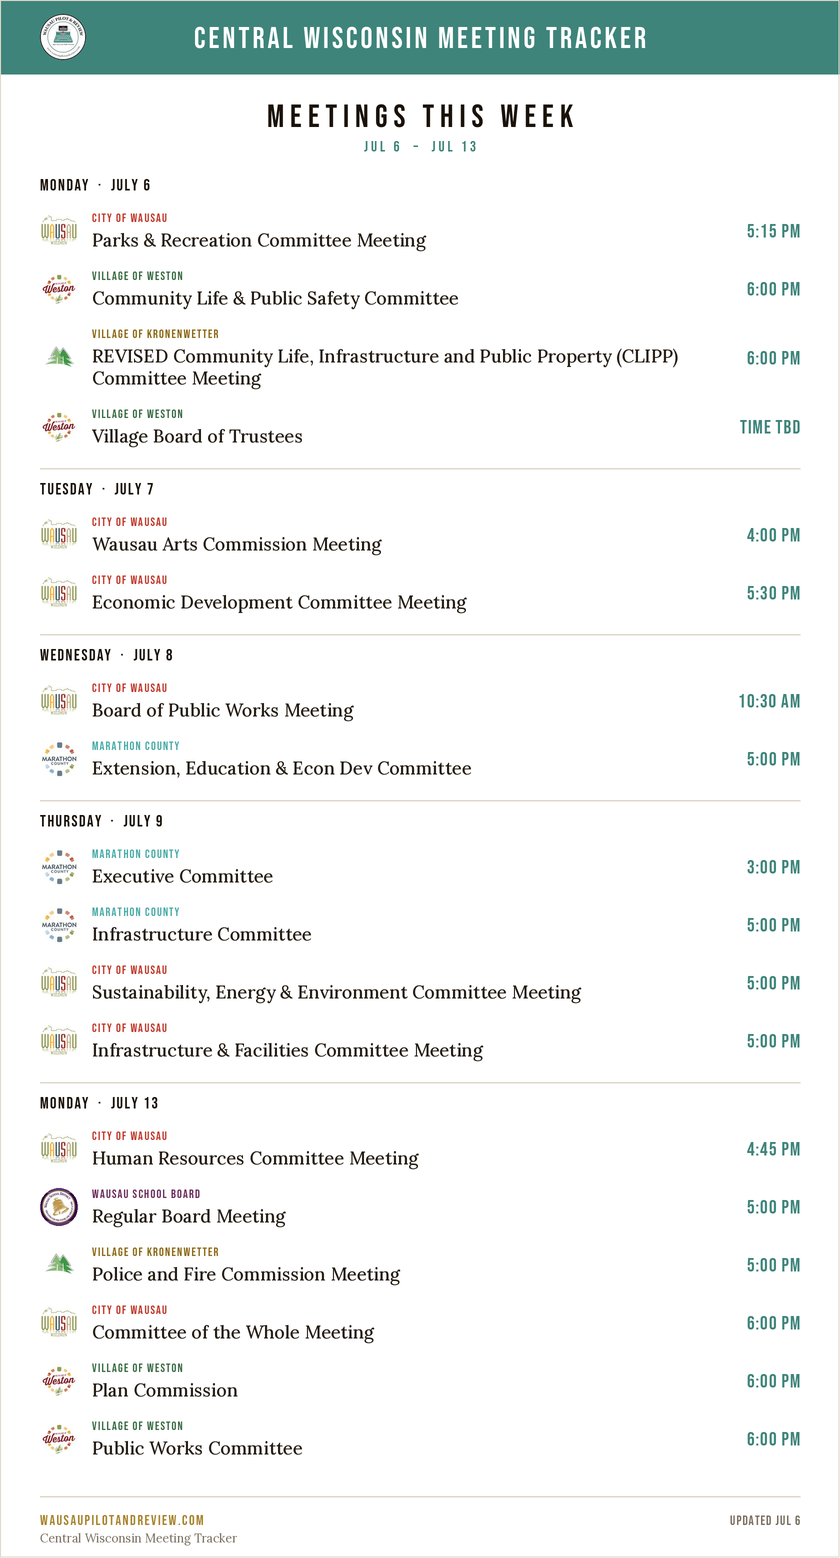
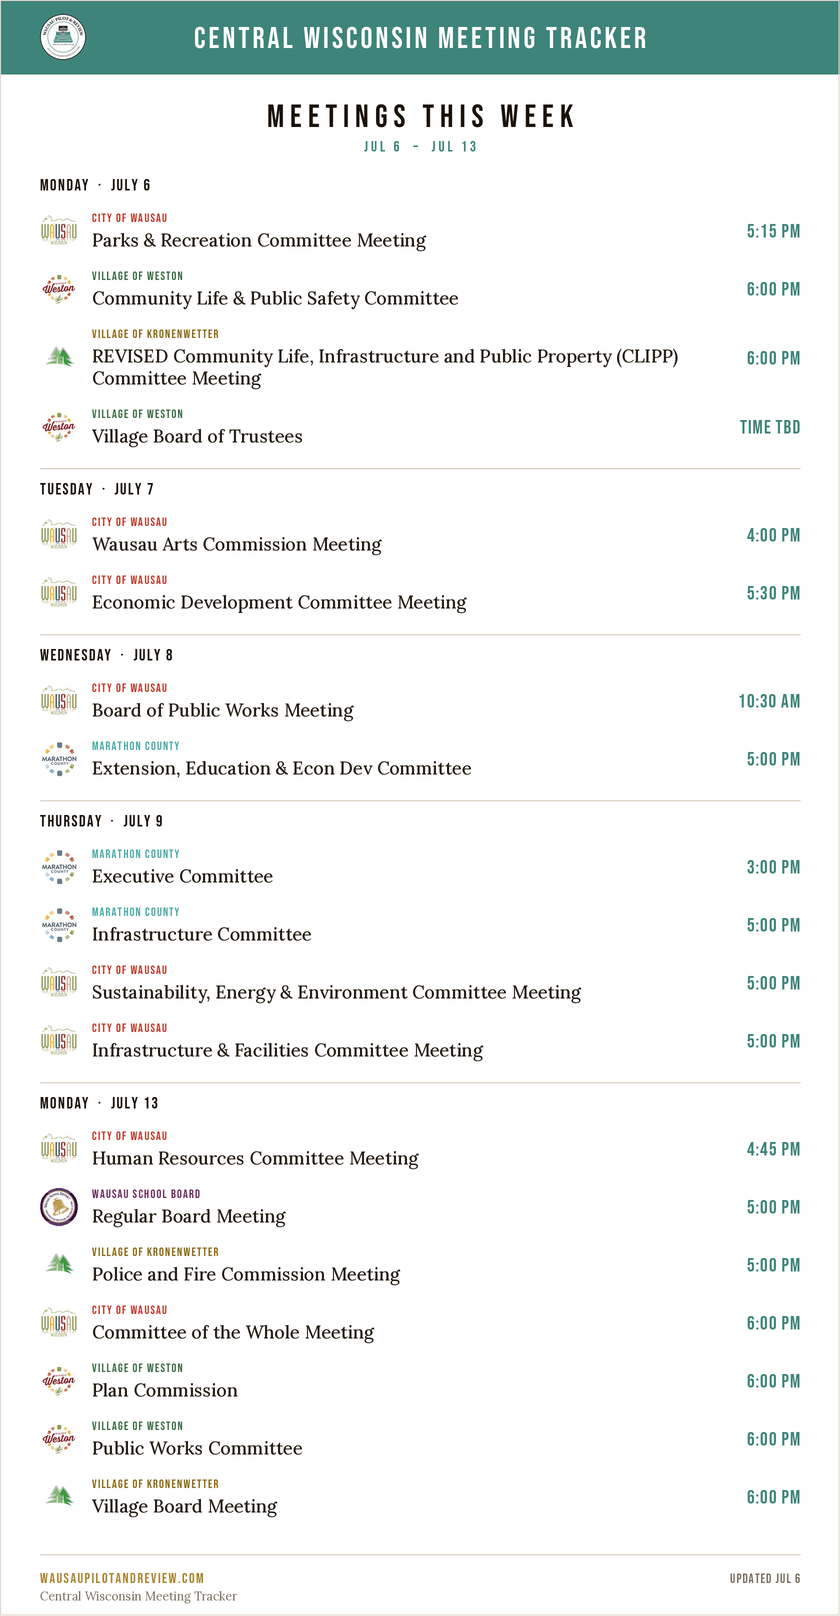
chore: update meetings data [skip ci]

diff --git a/public/roundup.html b/public/roundup.html
@@ -1,13 +1,14 @@
 <!-- DRAFT — auto-generated July 6, 2026; review before publishing -->
 <div style="max-width:600px;font-family:Georgia,'Times New Roman',serif;color:#1a1209;line-height:1.55;">
   <h2 style="font-family:Arial,Helvetica,sans-serif;font-size:15px;letter-spacing:0.12em;color:#3e847a;margin:0 0 10px;">THIS WEEK IN LOCAL GOVERNMENT</h2>
-  <p style="margin:0 0 12px;">Kronenwetter launched a new Parks Committee with plans for a major Bushka Park playground overhaul, while the Wausau School Board opened contract talks with its teachers union for the coming school year.</p>
+  <p style="margin:0 0 12px;">Kronenwetter launched a new Parks Committee with plans for a major playground overhaul at Bushka Park, while the Wausau School Board and its teachers union opened contract negotiations for the coming school year.</p>
   <ul style="margin:0 0 14px;padding-left:20px;">
-    <li style="margin:0 0 8px;">Kronenwetter's new Parks Committee elected Erin Mishka as chair and Dan Lesniac as vice chair at its first-ever meeting June 29, immediately turning to a $150,000–$200,000 playground replacement at Bushka Park.</li>
-    <li style="margin:0 0 8px;">The committee scheduled a public parks tour for July 8 at 4 p.m. at the municipal center, with July 9 as a rain date, and set a July 17 movie-under-the-stars fundraiser for the playground project.</li>
-    <li style="margin:0 0 8px;">The Wausau Board of Education met July 1 to exchange initial written contract proposals with the Wausau Education Association for the 2026-27 school year.</li>
-    <li style="margin:0 0 8px;">Kronenwetter's CLIPP Committee is set to vote on revisions to its Chapter 382 nuisances ordinance and consider traffic control measures on County Road XX and Terrebonne Drive at its July 6 meeting.</li>
+    <li style="margin:0 0 8px;">Kronenwetter's new Parks Committee elected Erin Mishka as chair and began planning a $150,000–$200,000 playground replacement at Bushka Park, with a July 17 movie-under-the-stars fundraiser in the works.</li>
+    <li style="margin:0 0 8px;">The Wausau Board of Education and the Wausau Education Association exchanged initial contract proposals for 2026-27 at a public meeting July 1.</li>
+    <li style="margin:0 0 8px;">Kronenwetter's CLIPP Committee is set to vote on revisions to the village's Chapter 382 nuisances ordinance at its July 6 meeting.</li>
+    <li style="margin:0 0 8px;">Kronenwetter's CLIPP Committee is also set to consider traffic control measures on County Road XX and Terrebonne Drive on July 6.</li>
+    <li style="margin:0 0 8px;">Kronenwetter's Parks Committee scheduled a public parks tour for Wednesday, July 8 at 4 p.m. at the municipal center, with July 9 as a rain date.</li>
   </ul>
-  <p style="margin:0 0 12px;"><em>Coming up:</em> Monday brings a full slate including Wausau's Parks & Recreation Committee at 5:15 p.m., the Village of Weston's Board of Trustees and Community Life & Public Safety Committee, and Kronenwetter's CLIPP meeting at 6 p.m. Later in the week, Marathon County's Infrastructure Committee meets Thursday and the City of Wausau's Infrastructure & Facilities and Sustainability, Energy & Environment committees both convene Thursday evening.</p>
+  <p style="margin:0 0 12px;"><em>Coming up:</em> The Village of Weston's Board of Trustees and Community Life & Public Safety Committee both meet Monday, July 7, and Wausau's Economic Development Committee meets Tuesday evening — while Marathon County's Infrastructure Committee and two City of Wausau committees convene Thursday, July 9.</p>
   <p style="margin:0;"><a href="https://wausaupilotandreview.com/central-wisconsin-meeting-tracker/" style="color:#3e847a;font-weight:bold;">Full summaries on the Meeting Tracker &rarr;</a></p>
 </div>